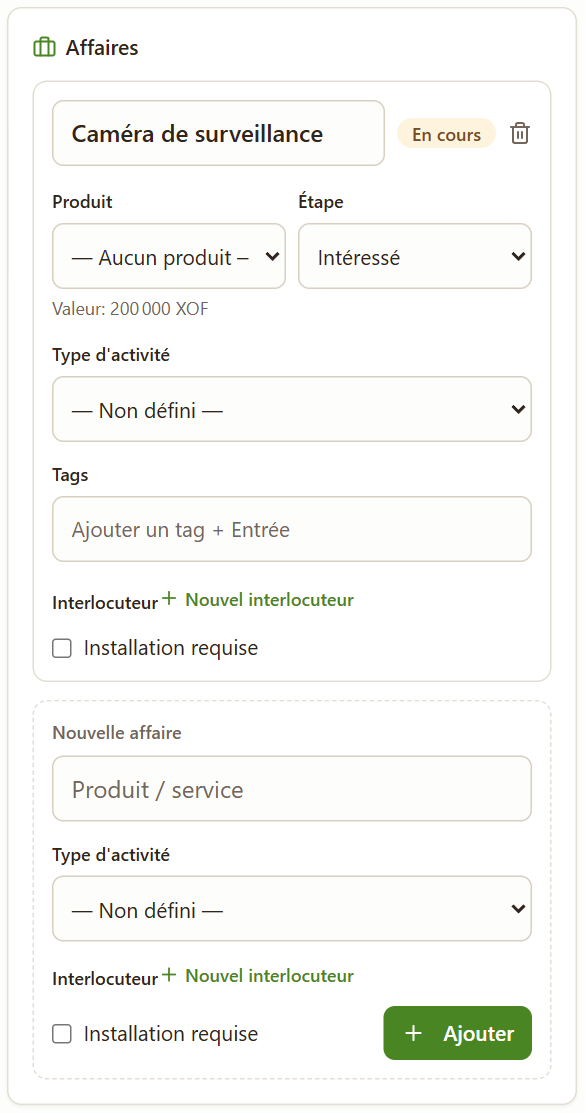
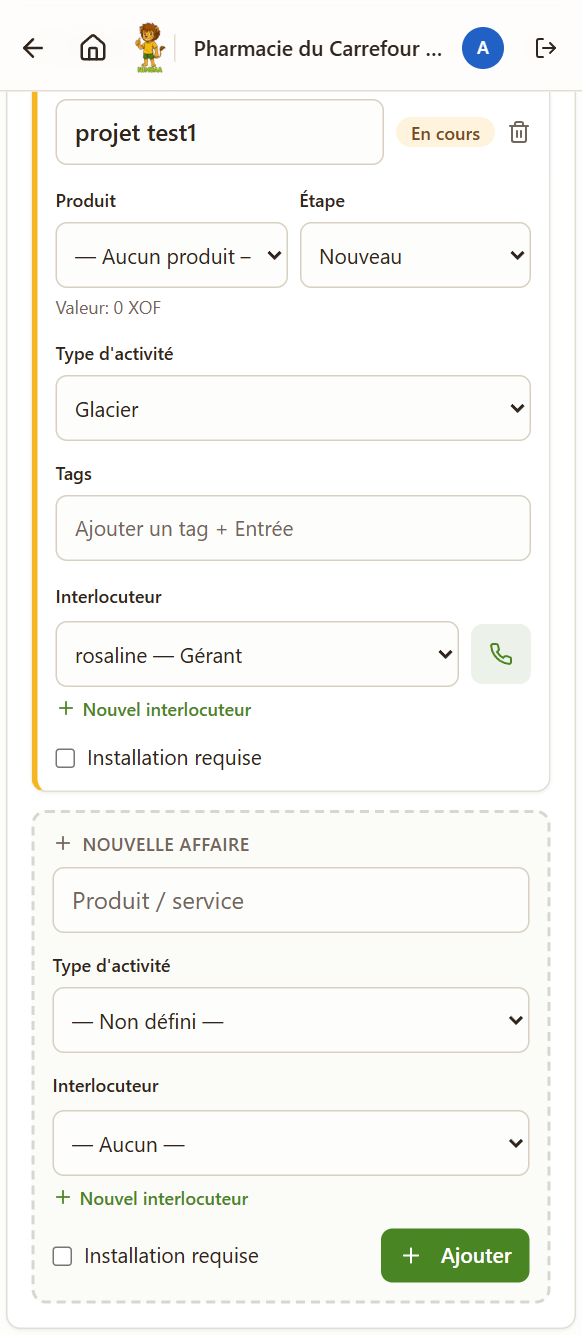
Manual: the address is picked now, and the Affaires block has a colour code
Two things changed under the guide since the last edition.

5e told people to type "quartier, rue, repère" into a box. That box is now a
picker, so the section explains the three routes — Ma position with the address
already detected, typing three letters to search, or dropping the pin — and why
they matter: a typed address is a string nobody can navigate to, while all
three of these keep the coordinates. Plus a note that Modifier carries the same
picker, which is how a client created from a visit gets an address corrected
when the GPS guessed a street away.

5b now says how to read the Affaires block: a white card with an amber, green
or red edge is an affaire that exists; the grey dashed frame is the form that
makes one.

Both screenshots reshot — they showed the old plain address box and the old
undifferentiated affaire cards.

diff --git a/public/manuel.html b/public/manuel.html
@@ -556,9 +556,18 @@
     </div>
     <p><strong>Prospect perdu ?</strong> Choisissez l'étape <strong>Perdu</strong>. Si le contact n'a plus aucune affaire ouverte ni gagnée, il bascule dans l'onglet <em>Perdus</em> — sa fiche et son historique restent consultables.</p>
   </div>
+    <h4>Lire le bloc Affaires</h4>
+    <p>Un client peut porter plusieurs affaires en même temps. Deux repères visuels évitent de les confondre :</p>
+    <div class="tablewrap"><table>
+      <tr><th>Ce que vous voyez</th><th>Ce que c'est</th></tr>
+      <tr><td>Une carte blanche avec une <strong>barre de couleur</strong> à gauche</td><td>Une affaire qui <strong>existe</strong>. La couleur est celle de son statut : <strong>ambre</strong> en cours, <strong>vert</strong> gagnée, <strong>rouge</strong> perdue.</td></tr>
+      <tr><td>Un cadre <strong>gris en pointillés</strong>, titré <strong>+ NOUVELLE AFFAIRE</strong></td><td>Le formulaire pour en créer une. Rien n'y est encore enregistré — c'est la même écriture « emplacement vide » que les cases photo.</td></tr>
+    </table></div>
+    <p>Le compteur à droite du titre <strong>Affaires</strong> annonce combien il y en a.</p>
+  </div>
   <figure class="phone">
-    <img src="/manuel/16-deal-stage.png" alt="Section Affaires d'un prospect : sélecteur Produit, menu Étape sur Intéressé, case Installation requise" />
-    <figcaption>La section <strong>Affaires</strong> d'un prospect. Le menu <strong>Étape</strong> — ici sur « Intéressé » — est le seul geste qui transforme le prospect en client.</figcaption>
+    <img src="/manuel/16-deal-stage.png" alt="Bloc Affaires : une affaire existante à barre ambre au-dessus du cadre en pointillés Nouvelle affaire" />
+    <figcaption>Une affaire <strong>existante</strong> (barre ambre, « En cours ») au-dessus du cadre en pointillés qui sert à en <strong>créer</strong> une.</figcaption>
   </figure>
 </section>
 
@@ -612,10 +621,24 @@
     <ol>
       <li><strong>Nom de l'enseigne</strong> — le seul champ obligatoire.</li>
       <li><strong>Téléphone</strong> — avec l'indicatif 🇨🇮 +225 par défaut, modifiable.</li>
-      <li><strong>Adresse</strong> — quartier, rue, repère.</li>
+      <li><strong>Adresse</strong> — trois façons de la poser, selon où vous êtes (voir ci-dessous).</li>
       <li><span class="btn-ref">Créer le prospect</span> vous dépose sur sa fiche, où se saisissent le type d'activité, les tags et l'affaire.</li>
     </ol>
     <p>La fiche vous est <strong>attribuée</strong>, comme un prospect créé depuis une visite. Elle apparaît aussitôt dans l'onglet <em>Prospects</em>.</p>
+
+    <h4>Poser l'adresse</h4>
+    <p>Une adresse tapée à la main est un texte : personne ne peut s'y rendre et le client n'apparaît sur aucune carte. Les trois chemins ci-dessous enregistrent aussi les <strong>coordonnées</strong>.</p>
+    <div class="tablewrap"><table>
+      <tr><th>Vous êtes…</th><th>Le geste</th></tr>
+      <tr><td>Devant le client</td><td><span class="btn-ref">Ma position</span> — le bouton affiche déjà l'adresse détectée, par exemple « Ma position : Avenue Nangui Abrogroua, Indénié, Abidjan ». Un appui confirme.</td></tr>
+      <tr><td>Ailleurs, mais vous connaissez le nom</td><td>Tapez trois lettres dans le champ : les résultats proches d'Abidjan s'affichent, touchez le bon.</td></tr>
+      <tr><td>Ni l'un ni l'autre</td><td><span class="btn-ref">Choisir sur la carte</span> — touchez la carte ou faites glisser le repère ; l'adresse est retrouvée toute seule.</td></tr>
+    </table></div>
+    <p>Sous le champ, <em>Position enregistrée · 5.35737, -3.99493</em> confirme que le point est gardé. Vous pouvez toujours taper librement : le texte est conservé, simplement sans coordonnées.</p>
+    <div class="callout tip">
+      <span class="lbl">Corriger une adresse plus tard</span>
+      <p>Le même sélecteur est disponible sur la fiche, dans <span class="btn-ref">✎ Modifier</span>. Utile pour un client créé depuis une visite : l'adresse y est celle que le GPS avait devinée au moment de la porte, parfois à une rue près. Si vous tapez un texte à la main, l'ancien point reste — il n'est remplacé que lorsque vous en choisissez un nouveau.</p>
+    </div>
     <div class="callout tip">
       <span class="lbl">Les trois façons d'enregistrer un client</span>
       <p>Une <strong>visite</strong> avec un résultat engagé (section 4) · <span class="btn-ref">+ Nouveau prospect</span> pour un contact obtenu autrement · un <strong>import CSV</strong> pour une liste entière, réservé à l'administrateur (section 14). Aucune de ces trois voies ne peut créer une fiche sans nom.</p>
